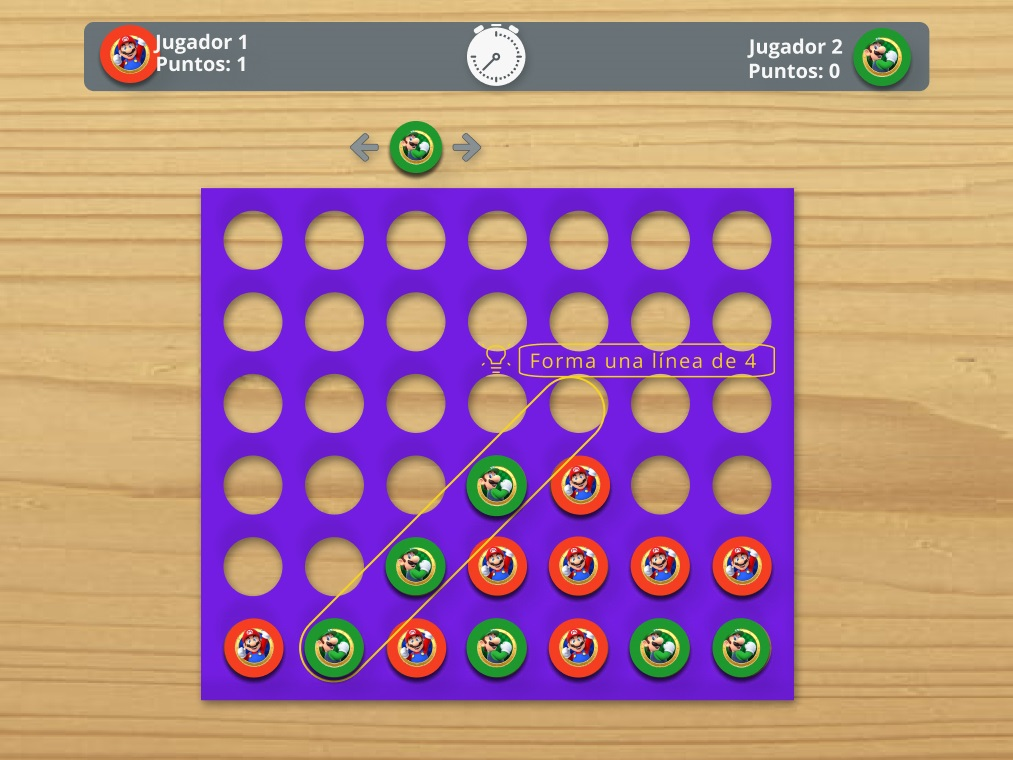
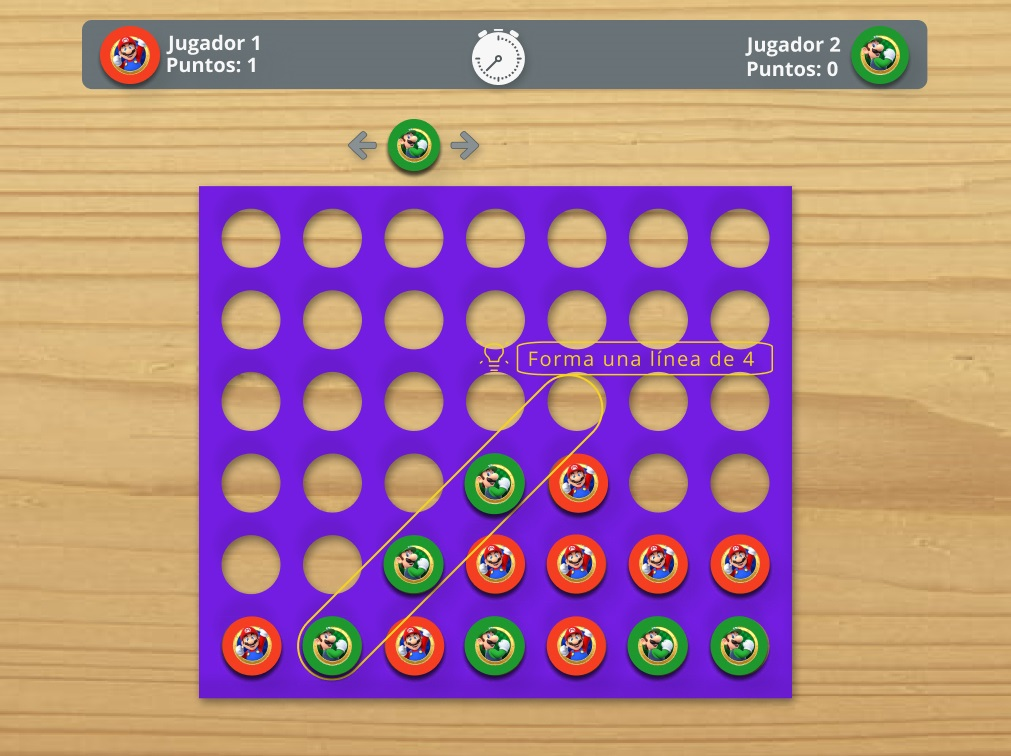
Agrego cambios a pagina de juegos, anda todo

diff --git a/style.css b/style.css
@@ -509,17 +509,18 @@ footer .desktop {
   section.sectionJuego,
   section .sectionComentarios {
     display: flex;
-    margin-bottom: 50px;
+    margin-bottom: 20px;
   }
 
   section.sectionJuego {
     height: 900px;
+    margin-top: 20px;
   }
 
   aside.asideJuegoInstrucciones {
     width: 1000px;
     height: 1040 px;
-    margin: 0;
+    margin: 0%;
   }
 
   section.sectionRecomendados {
@@ -529,13 +530,31 @@ footer .desktop {
 
   aside.asideVideos {
     width: max-content;
-    height: 1300px;
-    margin-left: 5%;
-  }
-  aside.asideVideos {
-    margin-top: 20px;
+    margin-left: 160px;
   }
 
+  .video {
+    position: relative;
+  }
+  
+  .btn-play {
+    position: absolute;
+    top: 50%;
+    left: 50%;
+    transform: translate(-50%, -50%);
+    display: block;
+    background-color: transparent;
+    border: transparent;
+    cursor: pointer
+  }
+ 
+  .btn-play img.play {
+    width: 50px;
+    height: 50px;
+    margin: 0%;
+
+  }
+ 
   section.seccionRecomendados {
     width: 100%;
     height: 400px;
@@ -567,9 +586,6 @@ footer .desktop {
     width: 800px;
     height: 600x;
     border-radius: 16px 16px 0px 0px;
-    margin-right: 20px;
-    margin-top: 20px;
-    margin-bottom: 0%;
   }
   img.separadorVideosSugeridos {
     width: 250px;
@@ -579,10 +595,10 @@ footer .desktop {
   aside.siderbarJuegoInstrucciones div.instrucciones {
     /*revisar no me lo toma*/
     background-color: var(--primarioSombra3);
-    width: 760px;
+    width: 780px;
     height: max-content;
     margin-top: 50px;
-    padding: 20px;
+    padding: 10px;
     font: "Open-Sans";
     font-size: 18px;
     color: var(--blanco);
@@ -595,6 +611,7 @@ footer .desktop {
     height: 50px;
     padding: 20px;
     display: flex;
+    margin-bottom: 0%;
   }
 
   div.botoneraComentarios img {
@@ -658,12 +675,11 @@ footer .desktop {
   /*------Botonera Redes----------*/
   div.botoneraRedes {
     background-color: var(--secundarioLuz1);
-    width: 800px;
+    width: 790px;
     height: 50px;
     margin: 0%;
     border-radius: 0px 0px 6px 6px;
-    padding: 0%;
-    padding-right: 6px;
+    padding-right: 10px;
   }
   .div.botoneraRedes img {
     width: 30px;
@@ -676,7 +692,6 @@ footer .desktop {
     display: flex;
     justify-content: flex-end;
     align-items: center;
-    margin: 2px;
   }
   button.redesJuego {
     background-color: transparent;
@@ -960,7 +975,7 @@ footer .desktop {
   .btn-nav:hover,
   .hoverAcento:hover,
   .ingresar:hover,
-  .enviar:hover {
+  .enviar:hover  {
     cursor: pointer;
   }
   .continuar:hover {

diff --git a/juego.html b/juego.html
@@ -167,7 +167,7 @@
       <section class="sectionJuego">
         <aside class="siderbarJuegoInstrucciones">
           <div class="juego">
-            <img src="img/juego.svg" alt="4 en linea" />
+            <img src="img/juego.jpg" alt="4 en linea" />
             <div class="botoneraRedes">
               <div class="horizontal">
               <button class="redesJuego">
@@ -210,14 +210,17 @@
           />
           <div class="video">
             <p class="textoBody">Trucos y atajos</p>
+            <button class="btn-play"><img class="play" src="img/play.svg" /></button>
             <img src="img/video2.jpg" alt="video" />
           </div>
           <div class="video">
             <p class="textoBody">Jugada maestra</p>
+            <button class="btn-play"><img class="play" src="img/play.svg" /></button>
             <img src="img/video3.jpg" alt="video" />
           </div>
           <div class="video">
             <p class="textoBody">LLevate la copa</p>
+            <button class="btn-play"><img class="play" src="img/play.svg" /></button>
             <img src="img/video4.jpg" alt="video" />
           </div>
         </aside>
